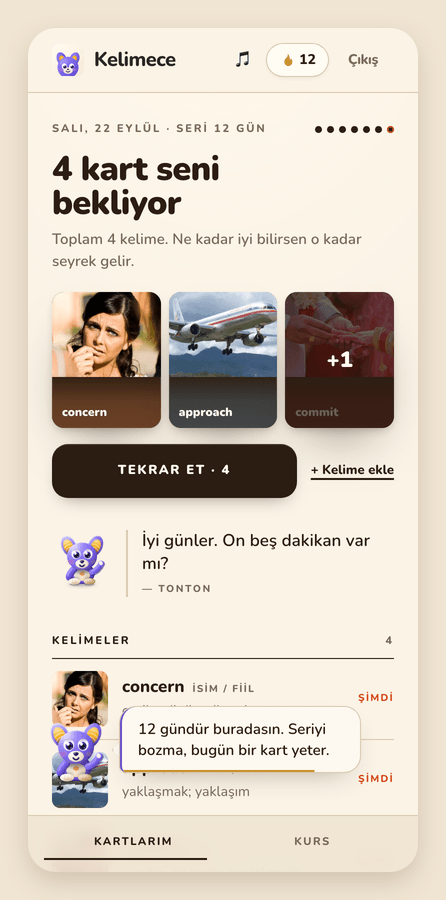
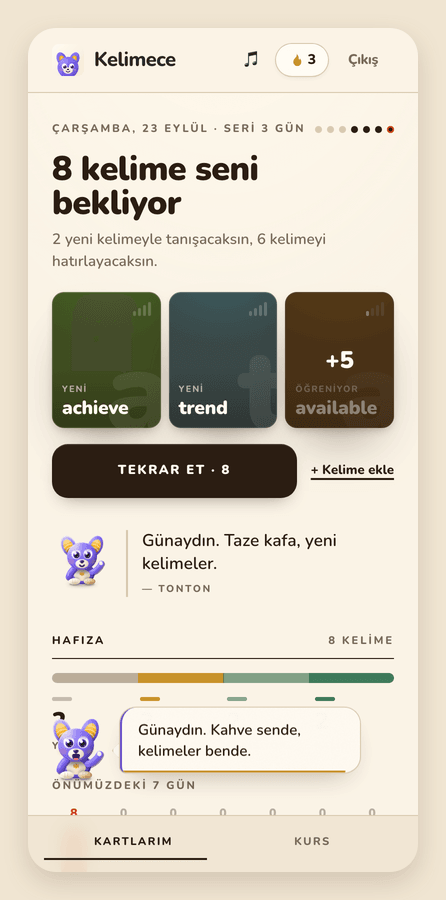
README, screenshots and CI for the new practice
The README describes the stages, the exercises and the marking; the screenshots show the app as it is now, without photos. CI runs the web tests too.

diff --git a/README.md b/README.md
@@ -1,20 +1,28 @@
 # Kelimece
 
-**English vocabulary for Turkish learners — your own words as magazine-cover flashcards, a 60-unit course, and Tonton, a character who actually shows up.**
+**English vocabulary for Turkish learners — your own words, asked the way memory needs them, a 60-unit course, and Tonton, a character who actually shows up.**
 
-Kelimece is a progressive web app built for one learner first: a few words a day, remembered for good. You add the words you meet in the wild (a series, a street sign, a meeting); the app turns each one into a rich card — meanings, patterns, example sentences, the chunks it lives in, its family, one thing to watch — and brings it back on an SM-2 schedule until it sticks. Alongside your own words runs a structured A1→C1 course with lessons, dialogues, grammar notes and unit tests.
+Kelimece is a progressive web app built for one learner first: a few words a day, remembered for good. You add the words you meet in the wild (a series, a street sign, a meeting); the app turns each one into a rich card — meanings, patterns, example sentences, the chunks it lives in, its family, one thing to watch — and brings it back on an SM-2 schedule. How it asks changes as the word settles: first you recognise it, then you produce it, in its sentences, its chunks and finally a sentence of your own. Alongside your own words runs a structured A1→C1 course with lessons, dialogues, grammar notes and unit tests.
 
 <p align="center">
-  <img src="docs/screenshots/home-and-cards.png" alt="Home page, card front and card back" width="900">
+  <img src="docs/screenshots/home-and-meet.png" alt="Home page, meeting a new word, and a recall card" width="900">
 </p>
 
 ## Features
 
-**Your words, as covers**
-- Every word gets a photograph and its own ink pulled from that photo; the card front reads like a magazine cover, the back is numbered meanings on paper. Examples, collocations and related words live on a separate sheet and on the word page, so the card itself stays word + meaning.
-- Flip, then swipe: left = didn't know, up = hard, right = knew it. A rubber stamp confirms the verdict; the pile shortens as you go.
-- SM-2 scheduling: a lapse comes back in ten minutes, a pass returns at your local midnight on the next interval. "How well you know it" decides how rarely you see it.
-- Front page as a dateline: today's streak, what is waiting, a newsstand of the next covers, and the contents list with each word's next review.
+**Practice that follows the memory**
+- Every word moves through four stages you can see — *Yeni* (new), *Öğreniyor* (learning), *Pekişiyor* (settling), *Kalıcı* (held) — drawn as signal bars on every card and list row.
+- A **new** word is met before it is asked: the word, the word at work in a sentence, a moment to guess what it means, then the meaning. It is asked a few cards later, with a review in between.
+- A word being **learned** is recognised: see it, recall the Turkish, flip, grade yourself — swipe right for *Bildim*, left for *Bilemedim*, up for *Zorlandım*. The next day it comes back as a gap in its own sentence, the Turkish open.
+- A word that **holds** has to be produced: typed from its Turkish, into its sentence, into one of its chunks (“___ a crime”), by ear, and — once it is yours — into the sentence you wrote with it.
+- Typed answers are marked by the app, fairly: the right form scores full marks, the right word in another form (“commit” for “committed”) nearly so, a small spelling slip counts as hard, a hint caps the mark, and “my answer was right too” takes back a wrong mark once.
+- A miss comes back three cards later, easier and with its sentence, until it is got; only the first answer of a session is written to the schedule. A word missed three times is marked *inatçı* (a leech) and gets extra support.
+- The moment a word is first recalled, you are asked to write a sentence of your own with it — the strongest cue a word can have. Later reviews blank the word out of it.
+
+**Memory, made visible**
+- The front page shows what is waiting, how many words sit at each stage, the next seven days of reviews, and last week's recall rate.
+- Meanings of words that are about to be asked stay blurred in the list, so the answer isn't read a minute before the question.
+- Each session ends with every word's new stage and when it comes back. Any word can be drilled on its own from its page without touching its schedule.
 
 **A course, on the same paper**
 - 60 units, A1 → C1, ~900 words: a lesson path per unit with meet / listen / recall rounds, a short dialogue that puts the unit's words to work, a grammar note in Tonton's voice with a mini quiz, and a unit test that gates the next unit.
@@ -27,11 +35,11 @@ Kelimece is a progressive web app built for one learner first: a few words a day
 - Installable PWA with an offline shell, Web Push reminders at the hour you choose (sent only when something is actually due), spoken words via the device voice, and a keyboard path for the desktop.
 
 <p align="center">
-  <img src="docs/screenshots/examples-summary-word.png" alt="Examples sheet, session summary and the word page" width="900">
+  <img src="docs/screenshots/production.png" alt="A typed answer marked right, a small slip, and writing your own sentence" width="900">
 </p>
 
 <p align="center">
-  <img src="docs/screenshots/course.png" alt="Course path, a lesson and a grammar note" width="900">
+  <img src="docs/screenshots/progress-and-course.png" alt="Session summary, a word's page and the course path" width="900">
 </p>
 
 <p align="center">
@@ -42,7 +50,7 @@ Kelimece is a progressive web app built for one learner first: a few words a day
 
 | | |
 |---|---|
-| **Web** | React 19, TypeScript, Vite 8, Tailwind CSS v4, TanStack Query, React Router 7, `vite-plugin-pwa` (Workbox, custom service worker) |
+| **Web** | React 19, TypeScript, Vite 8, Tailwind CSS v4, TanStack Query, React Router 7, `vite-plugin-pwa` (Workbox, custom service worker), Vitest |
 | **API** | Node, TypeScript, Express 5, PostgreSQL (`pg`), Zod, JWT + bcrypt, `web-push`, Vitest |
 | **Hosting** | Web on Vercel, API on Render, Postgres on Neon, hourly reminder job on GitHub Actions |
 
@@ -50,11 +58,15 @@ Kelimece is a progressive web app built for one learner first: a few words a day
 
 ### Scheduling
 
-Each card carries `repetitions`, `interval` (days) and `ease_factor` (starts at 2.5). A grade below 3 resets the card and brings it back ten minutes later; 3 or above schedules the first success for tomorrow, the second for six days out, and every later one for the previous interval × ease. The ease factor moves with your grades and never drops below 1.3. Due dates are stored as `timestamptz` and land on the learner's local midnight (`LEARNER_TIMEZONE`, default `Europe/Istanbul`), so "tomorrow" means tomorrow whatever hour you studied. See [`backend/src/services/srs.service.ts`](backend/src/services/srs.service.ts) and its tests.
+Each card carries `repetitions`, `interval` (days) and `ease_factor` (starts at 2.5). A grade below 3 resets the card and brings it back ten minutes later; 3 or above schedules the first success for tomorrow, the second for six days out, and every later one for the previous interval × ease. The ease factor moves with your grades and never drops below 1.3. Due dates are stored as `timestamptz` and land on the learner's local midnight (`LEARNER_TIMEZONE`, default `Europe/Istanbul`), so "tomorrow" means tomorrow whatever hour you studied. Every graded review also lands in `review_log`, which feeds the weekly numbers. See [`backend/src/services/srs.service.ts`](backend/src/services/srs.service.ts) and its tests.
+
+### Practice
+
+[`web/src/lib/practice.ts`](web/src/lib/practice.ts) decides how each word is asked today, from its stage ([`lib/memory.ts`](web/src/lib/memory.ts)) and what its card carries: sentences, chunks, the learner's own sentence, whether sound is on. The choice rotates by day, so a word isn't always met from the same side. A session is built once when it starts — one known word to warm up, new words met in threes and each asked again a few cards later, then the rest in the order they fell due — and grows as misses are put back in. The marking (normalising, inflections, slips counted as an optimal string alignment distance, hints) lives in the same file, and both are covered by tests.
 
 ### Cards
 
-A personal card is a small document: `senses[]` (part of speech, meaning, pattern, example, its Turkish), `collocations[]`, `related[]`, `watch_out`, a one-line `hook` that ties the photo to the word, plus `tint` and `focal` — the colour pulled from the photo and where its subject sits, used by the covers and thumbnails. Photos are resized on upload and stored in Postgres, served by an unguessable token.
+A personal card is a small document: `senses[]` (part of speech, meaning, pattern, example, its Turkish), `collocations[]`, `related[]`, `watch_out`, the learner's `my_sentence`, a `tint` (the word's own colour), and `lapses` — how many graded reviews it was missed in.
 
 ### Reminders
 
@@ -62,7 +74,7 @@ Turning reminders on stores a Web Push subscription with the chosen hour and tim
 
 ### Design system
 
-One warm paper in three tints (page, lifted sheet, recessed band), tan hairlines, umber shadows, a bistre ink. Colours carry meaning: vermilion for *due / missed*, moss for *known / later*, gilt for *hard* and the streak. Each word adds a fourth ink from its photograph. The motion scale, keyframes and the `tint-*` utilities live in [`web/src/index.css`](web/src/index.css); the per-word colour helper in [`web/src/lib/tint.ts`](web/src/lib/tint.ts).
+One warm paper in three tints (page, lifted sheet, recessed band), tan hairlines, umber shadows, a bistre ink. Colours carry meaning: vermilion for *due / missed*, moss for *known / later*, gilt for *hard* and the streak. Each word adds a colour of its own, deepened into bistre on its cover. The motion scale, keyframes and the `tint-*` utilities live in [`web/src/index.css`](web/src/index.css); the per-word colour helper in [`web/src/lib/tint.ts`](web/src/lib/tint.ts).
 
 ## Running it locally
 
@@ -82,27 +94,26 @@ npm install
 npm run dev                   # http://localhost:5173
 ```
 
-Optional API settings: `LEARNER_TIMEZONE` (default `Europe/Istanbul`), `ANTHROPIC_API_KEY` (enables auto-filling a new card's meanings and examples; without it the endpoint answers 503 and everything else works), `PUBLIC_API_URL` (absolute base for image URLs behind a proxy).
+Optional API settings: `LEARNER_TIMEZONE` (default `Europe/Istanbul`), `ANTHROPIC_API_KEY` (enables auto-filling a new card's meanings and examples; without it the endpoint answers 503 and everything else works).
 
 Checks:
 
 ```bash
 cd backend && npx tsc --noEmit && npx vitest run
-cd web && npm run lint && npm run build
+cd web && npm run lint && npm test && npm run build
 ```
 
 ## API
 
-All routes are under `/api/v1`; everything except `auth/*`, `images/:token` and `push/run` needs `Authorization: Bearer <token>`.
+All routes are under `/api/v1`; everything except `auth/*` and `push/run` needs `Authorization: Bearer <token>`.
 
 | Area | Routes |
 |---|---|
 | Auth | `POST auth/register`, `POST auth/login` |
-| Decks | `GET decks`, `POST decks`, `POST decks/personal`, `PUT decks/:id`, `DELETE decks/:id` |
-| Cards | `GET decks/:id/cards`, `GET decks/:id/cards/due`, `POST decks/:id/cards`, `POST decks/:id/cards/suggest`, `PUT decks/:id/cards/:cardId`, `DELETE decks/:id/cards/:cardId`, `POST decks/:id/cards/:cardId/review` |
+| Decks | `GET decks`, `POST decks`, `POST decks/personal`, `PUT decks/:id`, `DELETE decks/:id`, `GET decks/:id/stats` |
+| Cards | `GET decks/:id/cards`, `GET decks/:id/cards/due`, `POST decks/:id/cards`, `POST decks/:id/cards/suggest`, `PUT decks/:id/cards/:cardId`, `DELETE decks/:id/cards/:cardId`, `POST decks/:id/cards/:cardId/review` (`{ quality, kind? }`) |
 | Course | `GET decks/:id/units`, `POST decks/:id/units/:unitId/result`, `POST decks/:id/placement` |
 | Streak | `GET streak`, `POST streak` |
-| Images | `POST images`, `GET images/:token` |
 | Push | `GET push/key`, `GET push/status`, `POST push/subscribe`, `POST push/unsubscribe`, `POST push/test`, `POST push/run` |
 
 ## Project layout
@@ -110,19 +121,19 @@ All routes are under `/api/v1`; everything except `auth/*`, `images/:token` and 
 ```
 flashcards/
 ├── backend/
-│   ├── schema.sql                 users, decks, cards, units, unit_results, images, settings, push_subscriptions
+│   ├── schema.sql                 users, decks, cards, review_log, units, unit_results, settings, push_subscriptions
 │   ├── content/                   the course: one JSON per unit (words, dialogue, grammar note)
 │   └── src/
 │       ├── server.ts              Express app, CORS, routes
-│       ├── controllers/           auth, deck, card, unit, streak, image, push, suggest
+│       ├── controllers/           auth, deck, card, unit, streak, push, suggest
 │       ├── routes/                one router per controller
 │       ├── middleware/            bearer-token check
 │       └── services/              SM-2 (srs.service.ts) + tests
 ├── web/
 │   └── src/
-│       ├── pages/                 Kartlar (home), Flashcards, WordPage, Kurs, Study, UnitTest, Grammar, Dialogue, Placement, auth
-│       ├── components/            Mascot, TontonPopups, Sheet, WordCardBack, LearningPath, QuizOptions, …
-│       ├── lib/                   api, tint, tonton + tontonDirector, reminders, speech, quiz, path, …
+│       ├── pages/                 Kartlar (home), Flashcards (practice), WordPage, Kurs, Study, UnitTest, Grammar, Dialogue, Placement, auth
+│       ├── components/            Cover, StrengthBars, WordList, Mascot, TontonPopups, Sheet, WordCardBack, LearningPath, …
+│       ├── lib/                   practice + memory (and tests), sentence, tint, tonton + tontonDirector, reminders, speech, …
 │       ├── sw.ts                  service worker: precache + push handlers
 │       └── index.css              design tokens, motion scale, utilities
 ├── docs/screenshots/
@@ -137,6 +148,6 @@ flashcards/
 
 ## Roadmap
 
-- Multi-user onboarding and a native "add a word" flow with automatic meanings, examples and a photo suggestion
+- Multi-user onboarding and a native "add a word" flow with automatic meanings and examples
+- Speaking practice: say the word, have it checked
 - Import from a phone's notes / screenshots
-- A second language pair
